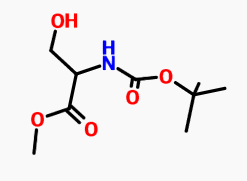
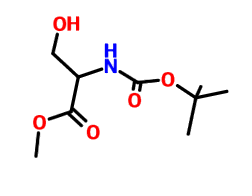
replaced product images to tranperent images.

Changed region(s): [[0.1134, 0.0552, 0.9352, 0.8564]]

diff --git a/themes/casper/layouts/_default/single.html b/themes/casper/layouts/_default/single.html
@@ -23,7 +23,7 @@
       {{$a := .Slug }}
 
       <!-- first table -->
-      <table class="table-striped" style="border-top: 2px solid; border-bottom: 2px solid;">
+      <table class="table-striped" class="tableStyle">
         {{ $url := (print "data/" $a "/" $a "_details.csv") }}
         {{ $sep := "," }}
         {{ range $i, $r := getCSV $sep $url }}
@@ -31,7 +31,7 @@
         <tr>
           {{ if eq $i 0 }}
             {{ range  $r }}
-             <b> <th style="background-color: white">{{ . }}</th> </b>
+             <b> <th class="tableBackcolor">{{ . }}</th> </b>
             {{end}}
 
             {{else}}
@@ -90,8 +90,8 @@
   {{ range $i, $r := getCSV $sep $url }}
   <div id="container" >
     {{ if eq $i 0 }}
-    <div style="float: left; width: 32%;">Structure</div> <div class="lineSpacing"><img src="/images/productImages/{{$a}}.png"></div>
-    <div style="float: left; width: 32%;">
+    <div class="productInfo">Structure</div> <div class="lineSpacing"><img src="/images/productImages/{{$a}}.png"></div>
+    <div class="productInfo">
       {{ range $r}}
       <div class="lineSpacing">{{.}} </div>
       {{end}}
@@ -104,12 +104,6 @@
     </div>
     {{ end }}
   </div>
-
-
-
-
-
-
 
 
     <!-- =========== -->

diff --git a/themes/casper/layouts/page/single.html b/themes/casper/layouts/page/single.html
@@ -9,18 +9,18 @@
         <div class="form-group">
             <label for="name">Name*</label>
             <input type="name" name="Name" class="form-control" placeholder="Enter name" id="name">
-            <span id="nameErr" style="color: red"></span>
+            <span id="nameErr" class="formFieldErr"></span>
         </div>
         <div class="form-group">
             <label for="Email">Email Address*</label>
             <input type="email" name="Email" class="form-control" placeholder="Enter email" id="email">
-            <span id="emailErr" style="color: red"></span>
+            <span id="emailErr" class="formFieldErr"></span>
         </div>
 
         <div class="form-group">
             <label for="Message">Message*</label>
             <textarea class="form-control" rows="5" id="message" name="Message" placeholder="Message"></textarea>
-            <span id="messageErr" style="color: red"></span>
+            <span id="messageErr" class="formFieldErr"></span>
         </div>
         <button type="submit" class="btn btn-default">Submit</button>
     </form>

diff --git a/themes/casper/layouts/partials/header.html b/themes/casper/layouts/partials/header.html
@@ -91,9 +91,7 @@
       <li class="products"><a href="/products">Products</a></li>
       <li class="contact"><a href="/contact">Contact Us</a></li>
     </ul>
-    <form class="navbar-form navbar-left" onsubmit="searchIt()" autocomplete="off" style="float: right !important;
-    margin-top: 6px;
-    margin-right: -23px;width: 42%;">
+    <form class="navbar-form navbar-left searchBox" onsubmit="searchIt()" autocomplete="off">
       <div class="form-group" style="width: 79%;">
         <input type="text" list="results" name="search" id="search" class="form-control" style="width: 100%; margin-left: -6px; margin-top: 1px;" placeholder="Search Product ...">
         <datalist id="results">

diff --git a/themes/casper/static/css/style.css b/themes/casper/static/css/style.css
@@ -79,3 +79,33 @@
     margin-top: 10px;
 }
 
+.formFieldErr {
+    color: red
+}
+
+.productInfo {
+    float: left;
+    width: 32%;
+}
+
+.tableStyle {
+    border-top: 2px solid;
+    border-bottom: 2px solid;
+}
+
+.tableBackcolor {
+    background-color: white;
+}
+
+.pagealign {
+    padding-left: 25%;
+    padding-right: 25%;
+}
+
+.searchBox {
+    float: right !important;
+    margin-top: 6px;
+    margin-right: -23px;width: 42%;
+}
+
+

diff --git a/themes/casper/layouts/_default/list.html b/themes/casper/layouts/_default/list.html
@@ -46,7 +46,7 @@
 	</div>
 
 	   <!-- {{ partial "li.html" . }} -->
-    <div style="padding-left: 25%; padding-right: 25%;">
+    <div class="pagealign">
       <table align="center">
       {{ range $index, $page := $paginator.Pages }}
         <tr>
